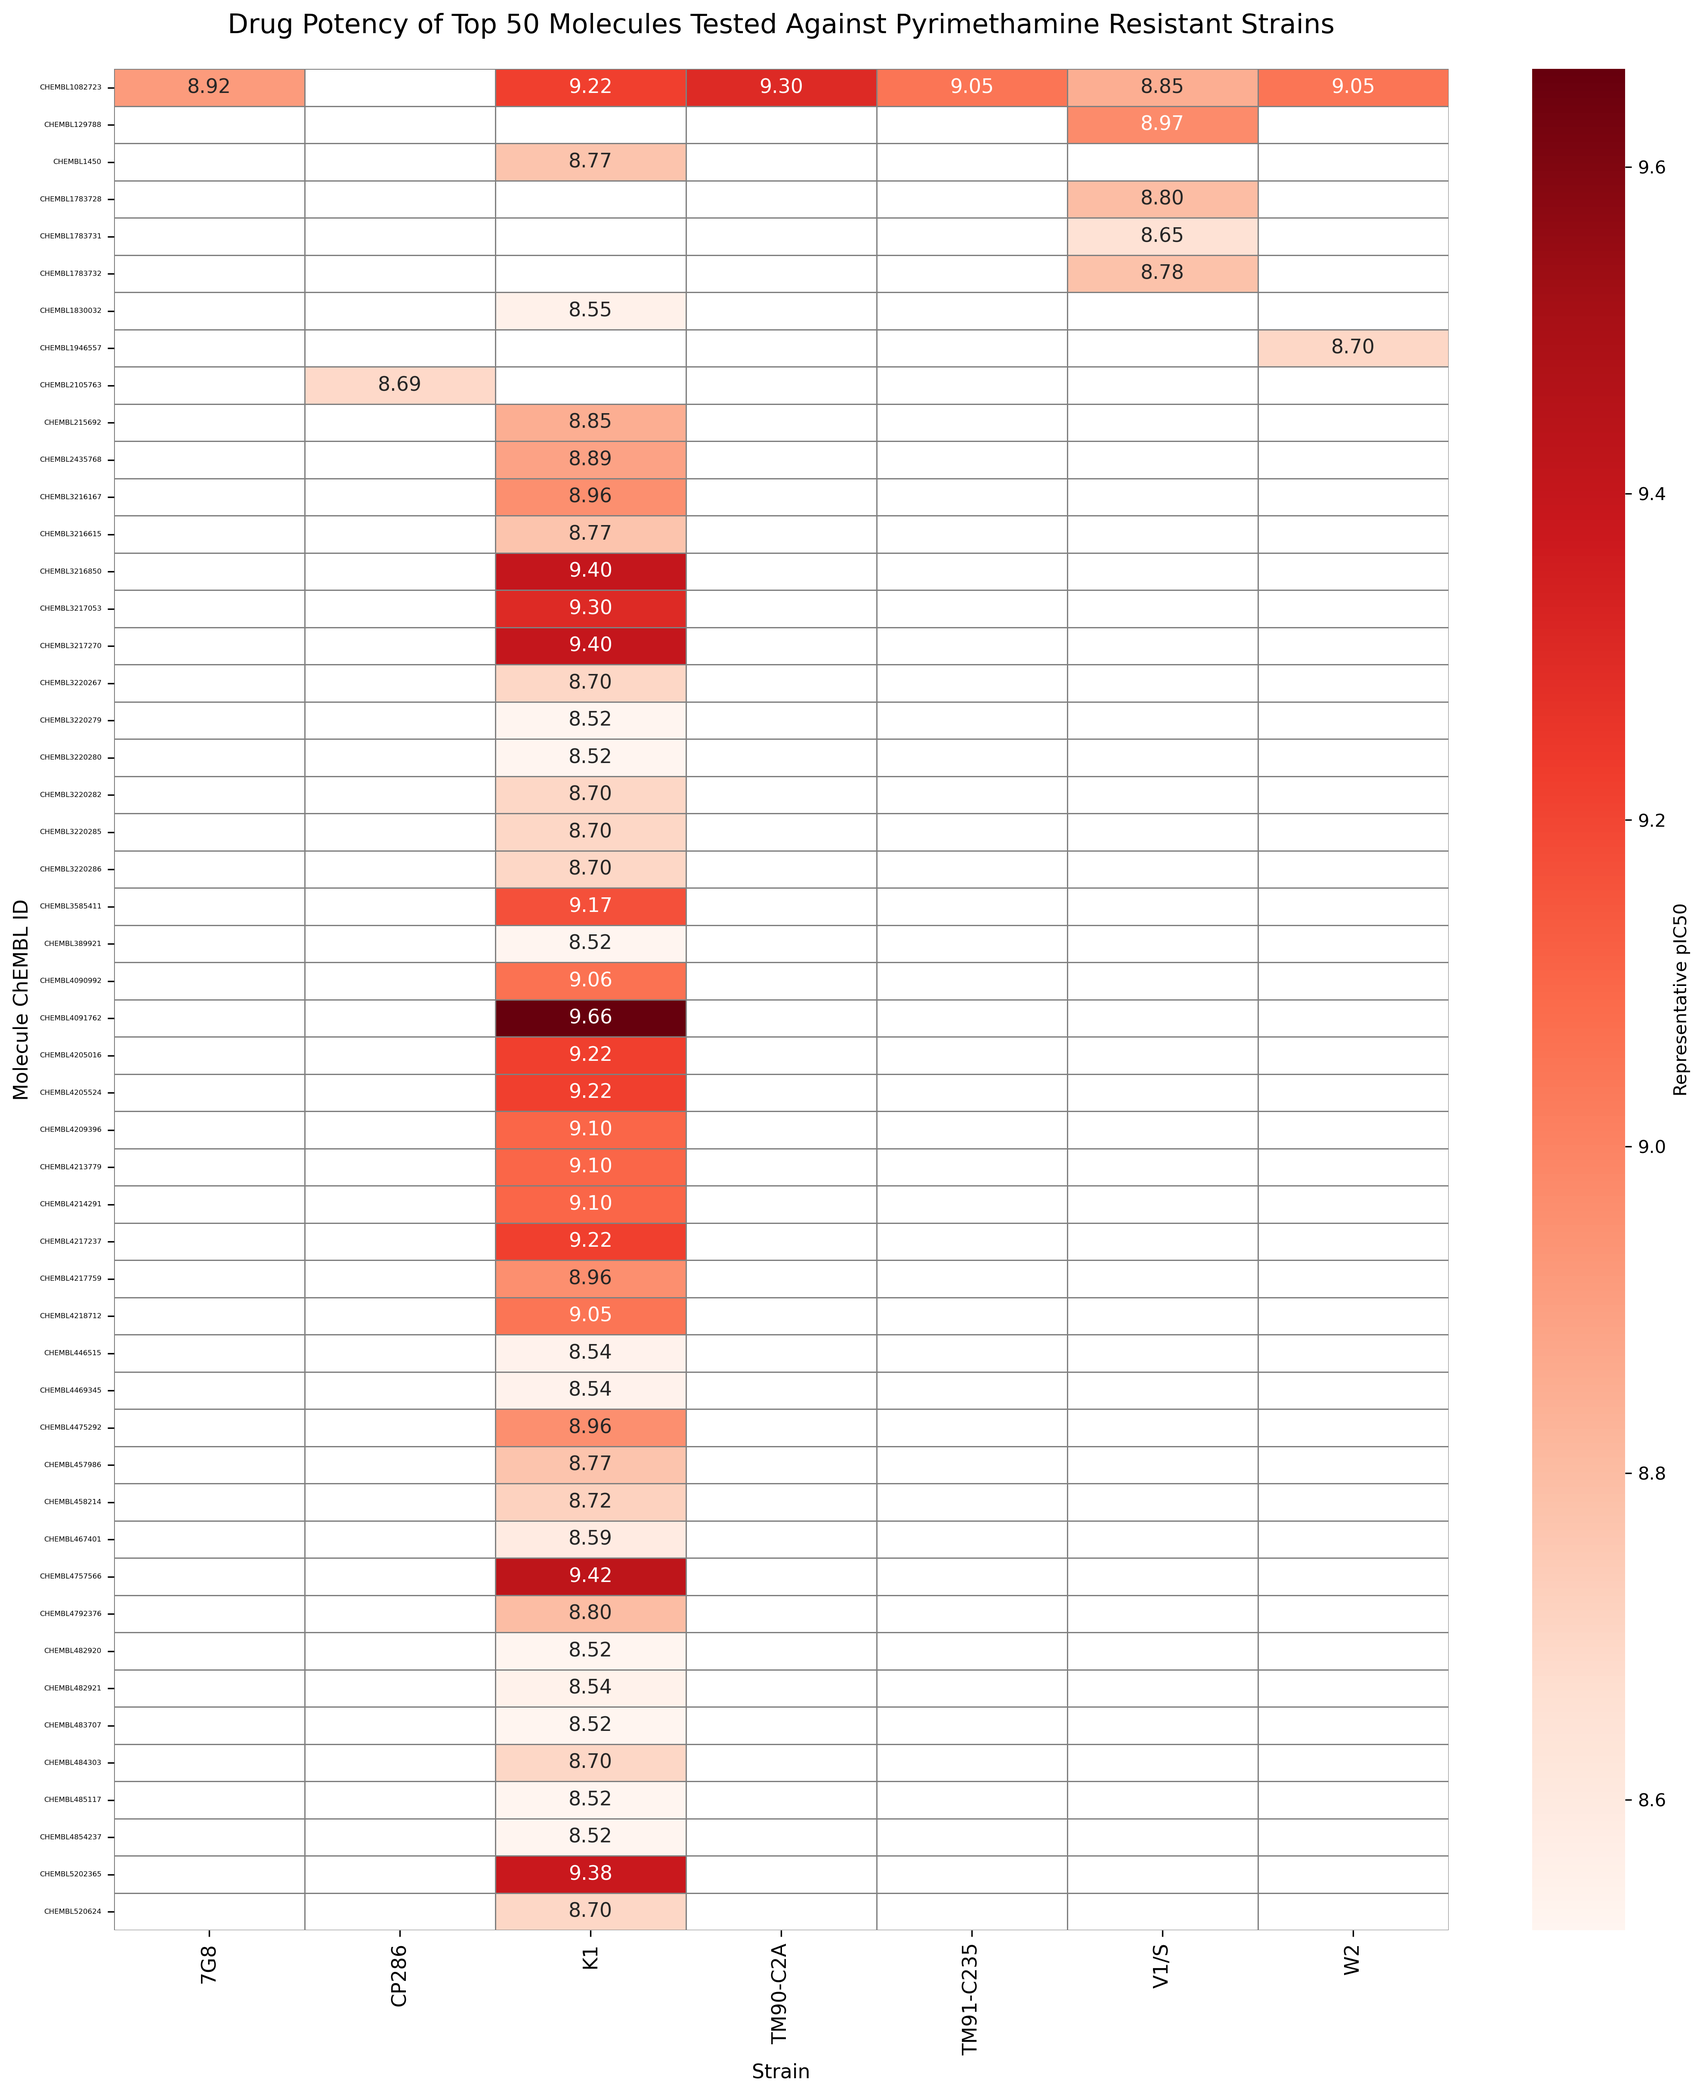
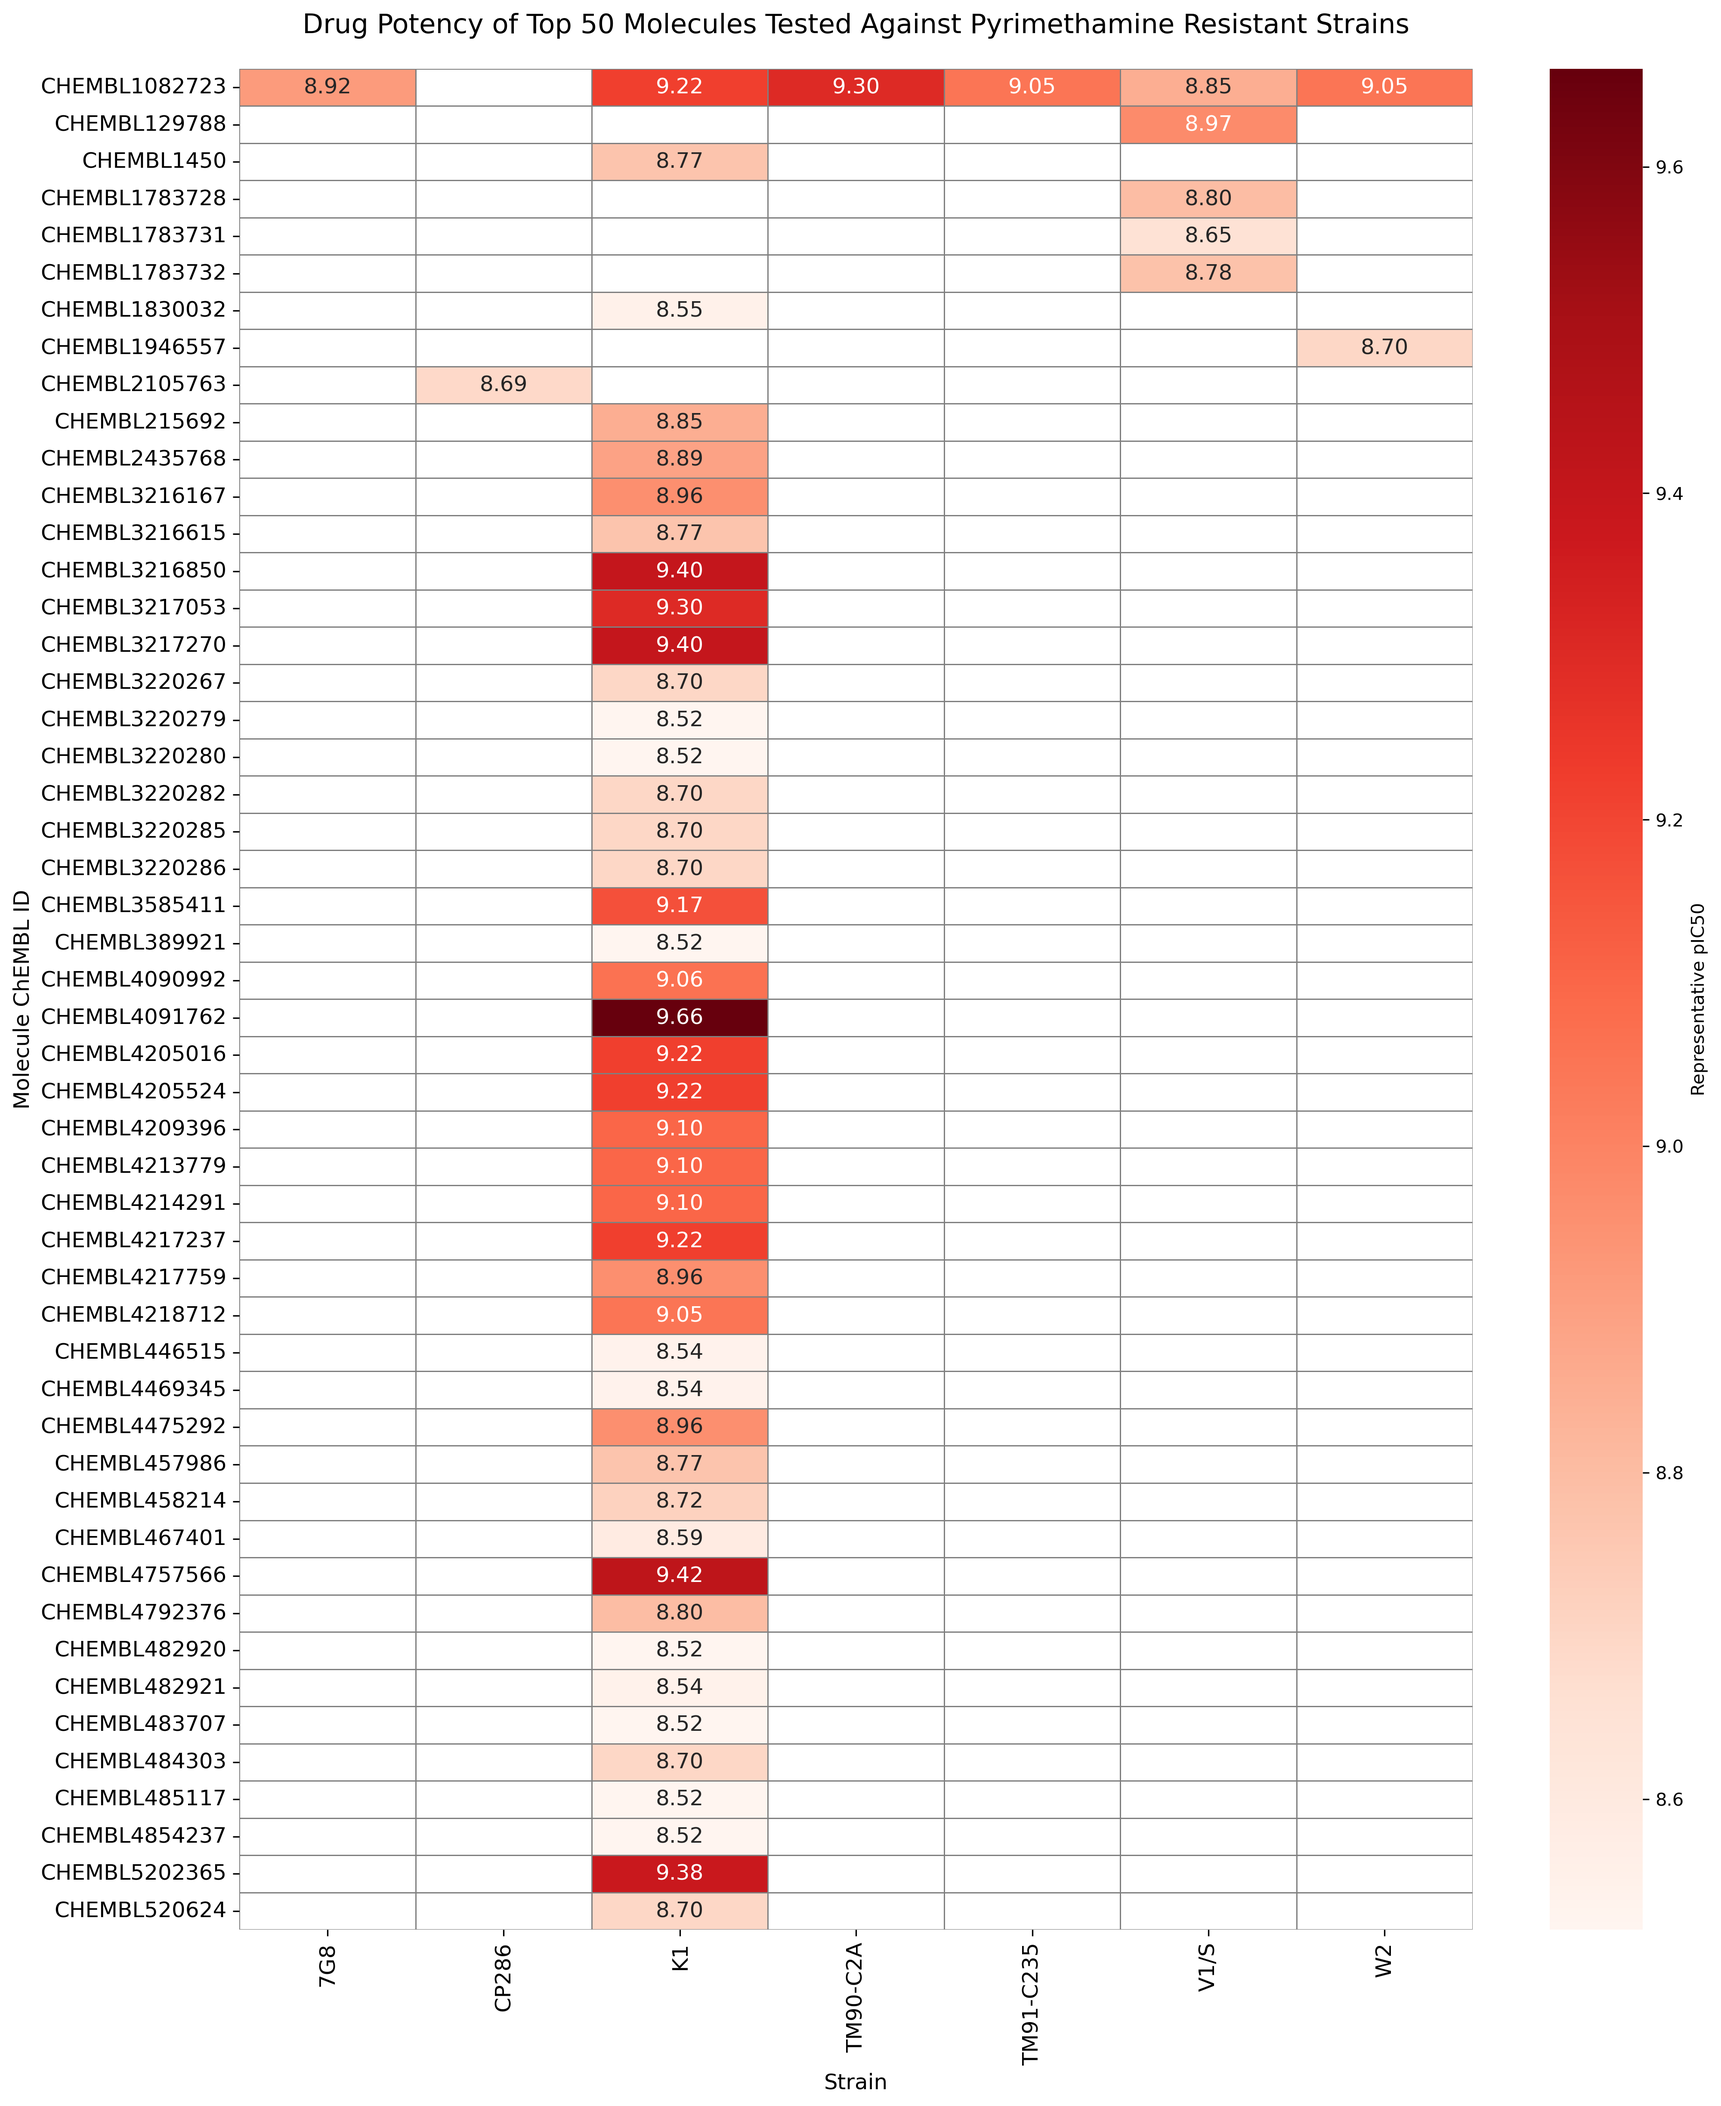
edits to heat maps and ds changes

diff --git a/p1_preprocessing/3 - Data visualizations before splits/drug_resistance/2_gen_drug_resistance_heatmap.py b/p1_preprocessing/3 - Data visualizations before splits/drug_resistance/2_gen_drug_resistance_heatmap.py
@@ -56,19 +56,19 @@ ax = sns.heatmap(
     annot=True,
     fmt='.2f',
     cbar_kws={'label': 'Representative pIC50'},
-    annot_kws={'size': 11},
+    annot_kws={'size': 12},
     linewidths=0.25,
     linecolor='gray'
 )
 
 # Rotate axis labels
-ax.set_xticklabels(ax.get_xticklabels(), rotation=90, ha='center', fontsize=11)
-ax.set_yticklabels(ax.get_yticklabels(), rotation=0, fontsize=4)
+ax.set_xticklabels(ax.get_xticklabels(), rotation=90, ha='center', fontsize=12)
+ax.set_yticklabels(ax.get_yticklabels(), rotation=0, fontsize=12)
 
 # Layout and title
 plt.title("Drug Potency of Top 50 Molecules Tested Against Chloroquine Resistant Strains", pad=20, fontsize=15)
-plt.xlabel('Strain', fontsize=11)
-plt.ylabel('Molecule ChEMBL ID', fontsize=11)
+plt.xlabel('Strain', fontsize=12)
+plt.ylabel('Molecule ChEMBL ID', fontsize=12)
 plt.tight_layout()
 plt.subplots_adjust(bottom=0.25)
 plt.savefig('./p1_preprocessing/3 - Data visualizations before splits/drug_resistance/cqr_hm.png', dpi=300, bbox_inches='tight')
@@ -113,19 +113,19 @@ ax = sns.heatmap(
     annot=True,
     fmt='.2f',
     cbar_kws={'label': 'Representative pIC50'},
-    annot_kws={'size': 11},
+    annot_kws={'size': 12},
     linewidths=0.25,
     linecolor='gray'
 )
 
 # Rotate axis labels
-ax.set_xticklabels(ax.get_xticklabels(), rotation=90, ha='center', fontsize=11)
-ax.set_yticklabels(ax.get_yticklabels(), rotation=0, fontsize=4)
+ax.set_xticklabels(ax.get_xticklabels(), rotation=90, ha='center', fontsize=12)
+ax.set_yticklabels(ax.get_yticklabels(), rotation=0, fontsize=12)
 
 # Adjust layout and title
 plt.title("Drug Potency of Top 50 Molecules Tested Against Mefloquine Resistant Strains", pad=20, fontsize=15)
-plt.xlabel('Strain', fontsize=11)
-plt.ylabel('Molecule ChEMBL ID', fontsize=11)
+plt.xlabel('Strain', fontsize=12)
+plt.ylabel('Molecule ChEMBL ID', fontsize=12)
 plt.tight_layout()
 plt.subplots_adjust(bottom=0.25) 
 plt.savefig('./p1_preprocessing/3 - Data visualizations before splits/drug_resistance/mefr_hm.png', dpi=300, bbox_inches='tight')
@@ -170,19 +170,19 @@ ax = sns.heatmap(
     annot=True,
     fmt='.2f',
     cbar_kws={'label': 'Representative pIC50'},
-    annot_kws={'size': 11},
+    annot_kws={'size': 12},
     linewidths=0.25,
     linecolor='gray'
 )
 
 # Rotate axis labels
-ax.set_xticklabels(ax.get_xticklabels(), rotation=90, ha='center', fontsize=11)
-ax.set_yticklabels(ax.get_yticklabels(), rotation=0, fontsize=4)
+ax.set_xticklabels(ax.get_xticklabels(), rotation=90, ha='center', fontsize=12)
+ax.set_yticklabels(ax.get_yticklabels(), rotation=0, fontsize=12)
 
 # Adjust layout and title
 plt.title("Drug Potency of Top 50 Molecules Tested Against Pyrimethamine Resistant Strains", pad=20, fontsize=15)
-plt.xlabel('Strain', fontsize=11)
-plt.ylabel('Molecule ChEMBL ID', fontsize=11)
+plt.xlabel('Strain', fontsize=12)
+plt.ylabel('Molecule ChEMBL ID', fontsize=12)
 plt.tight_layout()
 plt.subplots_adjust(bottom=0.25) 
 plt.savefig('./p1_preprocessing/3 - Data visualizations before splits/drug_resistance/pyrr_hm.png', dpi=300, bbox_inches='tight')
@@ -227,19 +227,19 @@ ax = sns.heatmap(
     annot=True,
     fmt='.2f',
     cbar_kws={'label': 'Representative pIC50'},
-    annot_kws={'size': 11},
+    annot_kws={'size': 12},
     linewidths=0.25,
     linecolor='gray'
 )
 
 # Rotate axis labels
-ax.set_xticklabels(ax.get_xticklabels(), rotation=90, ha='center', fontsize=11)
-ax.set_yticklabels(ax.get_yticklabels(), rotation=0, fontsize=4)
+ax.set_xticklabels(ax.get_xticklabels(), rotation=90, ha='center', fontsize=12)
+ax.set_yticklabels(ax.get_yticklabels(), rotation=0, fontsize=12)
 
 # Adjust layout and title
 plt.title("Drug Potency of Top 50 Molecules Tested Against Chloroquine Sensitive Strains", pad=20, fontsize=15)
-plt.xlabel('Strain', fontsize=11)
-plt.ylabel('Molecule ChEMBL ID', fontsize=11)
+plt.xlabel('Strain', fontsize=12)
+plt.ylabel('Molecule ChEMBL ID', fontsize=12)
 plt.tight_layout()
 plt.subplots_adjust(bottom=0.25) 
 plt.savefig('./p1_preprocessing/3 - Data visualizations before splits/drug_resistance/cqs_hm.png', dpi=300, bbox_inches='tight')
@@ -286,19 +286,19 @@ ax = sns.heatmap(
     annot=True,
     fmt='.2f',
     cbar_kws={'label': 'Representative pIC50'},
-    annot_kws={'size': 11},
+    annot_kws={'size': 12},
     linewidths=0.25,
     linecolor='gray'
 )
 
 # Rotate axis labels
-ax.set_xticklabels(ax.get_xticklabels(), rotation=90, ha='center', fontsize=11)
-ax.set_yticklabels(ax.get_yticklabels(), rotation=0, fontsize=4)
+ax.set_xticklabels(ax.get_xticklabels(), rotation=90, ha='center', fontsize=12)
+ax.set_yticklabels(ax.get_yticklabels(), rotation=0, fontsize=12)
 
 # 8. Adjust layout and title
 plt.title("Drug Potency of Top 50 Molecules Tested Against Mefloquine Sensitive Strains", pad=20, fontsize=15)
-plt.xlabel('Strain', fontsize=11)
-plt.ylabel('Molecule ChEMBL ID', fontsize=11)
+plt.xlabel('Strain', fontsize=12)
+plt.ylabel('Molecule ChEMBL ID', fontsize=12)
 plt.tight_layout()
 plt.subplots_adjust(bottom=0.25) 
 plt.savefig('./p1_preprocessing/3 - Data visualizations before splits/drug_resistance/mefs_hm.png', dpi=300, bbox_inches='tight')
